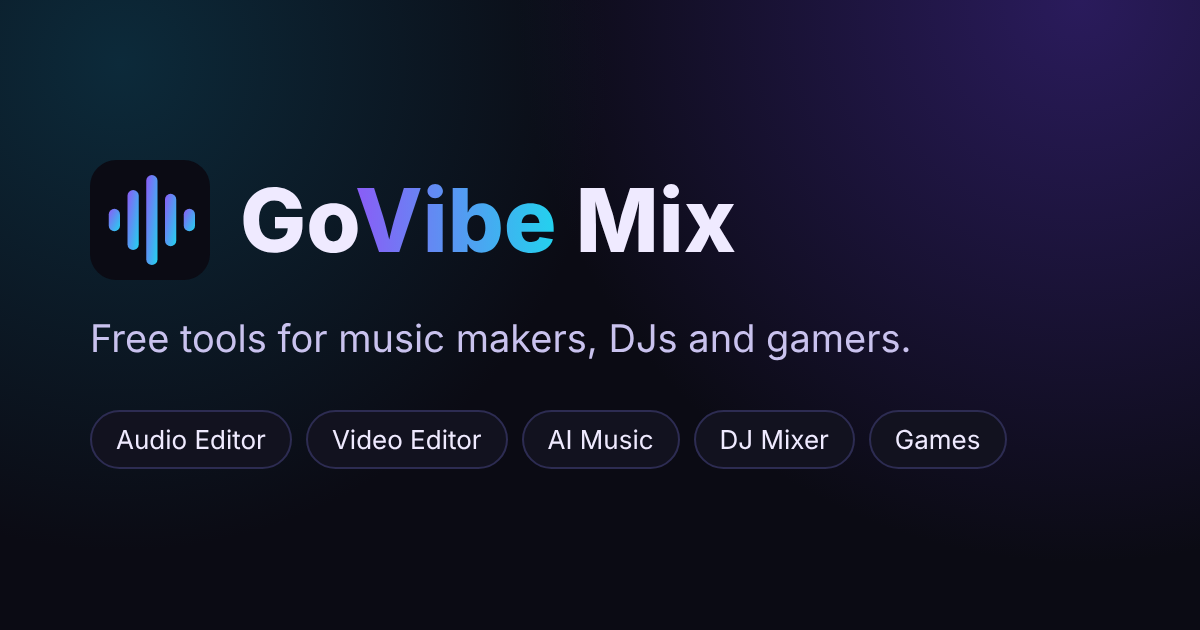
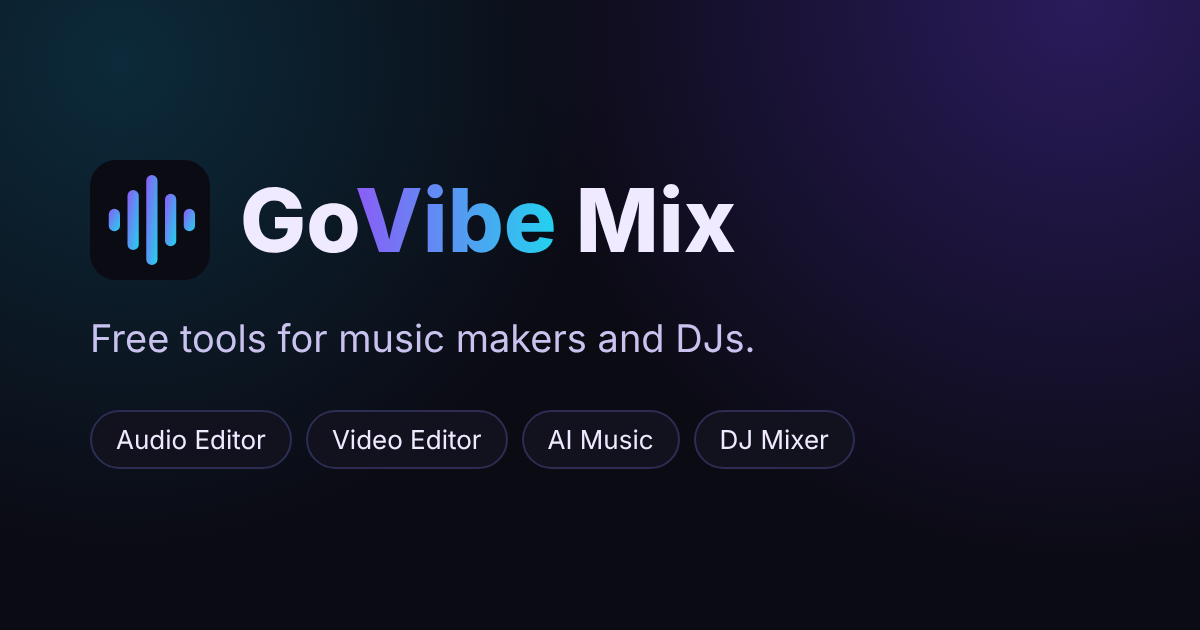
Remove the Play/games section; tighten CSP frame-src to none
Claude-Session: https://claude.ai/code/session_015FdqwN8M4ShayMkwiuPJAE

Changed region(s): [[0.4933, 0.5127, 0.7708, 0.573], [0.74, 0.6333, 0.8325, 0.754]]

diff --git a/index.html b/index.html
@@ -3,16 +3,16 @@
 <head>
 <meta charset="utf-8">
 <meta name="viewport" content="width=device-width, initial-scale=1">
-<title>GoVibe Mix — free music, audio and games</title>
-<meta name="description" content="Free browser tools for music makers, DJs and gamers: edit audio and video, make AI music, mix like a DJ and play games. No sign-up.">
+<title>GoVibe Mix — free music, audio and DJ tools</title>
+<meta name="description" content="Free browser tools for music makers and DJs: edit audio and video, make AI music and mix like a DJ. No sign-up.">
 <meta name="theme-color" content="#0b0b14">
 <link rel="icon" href="icons/favicon.svg" type="image/svg+xml">
 <link rel="apple-touch-icon" href="icons/icon-180.png">
 <link rel="manifest" href="manifest.webmanifest">
 <meta property="og:type" content="website">
 <meta property="og:site_name" content="GoVibe Mix">
-<meta property="og:title" content="GoVibe Mix — free music, audio and games">
-<meta property="og:description" content="Free browser tools for music makers, DJs and gamers: edit audio and video, make AI music, mix like a DJ and play games. No sign-up.">
+<meta property="og:title" content="GoVibe Mix — free music, audio and DJ tools">
+<meta property="og:description" content="Free browser tools for music makers and DJs: edit audio and video, make AI music and mix like a DJ. No sign-up.">
 <meta property="og:url" content="https://go-vibe-studios.sweater-9arc.workers.dev/">
 <meta property="og:image" content="https://go-vibe-studios.sweater-9arc.workers.dev/icons/og-image.png">
 <meta name="twitter:card" content="summary_large_image">
@@ -25,14 +25,13 @@
   <a class="link active" aria-current="page" href="index.html">Home</a>
   <a class="link" href="editor.html">Audio Editor</a>
   <a class="link" href="video.html">Video</a>
-  <a class="link" href="games.html">Play</a>
   <a class="link" href="create.html">Create</a>
   <a class="link" href="dj.html">DJ</a>
   <a class="link" href="lessons.html">Learn</a>
 </nav>
 
 <main id="main" tabindex="-1" class="wrap">
-  <h1>Free tools for <span class="grad">music, DJs and gamers</span></h1>
+  <h1>Free tools for <span class="grad">music and DJs</span></h1>
   <p class="lead">Everything runs in your browser. No sign-up, no payments, and your files never leave your device.</p>
 
   <div class="grid">
@@ -40,12 +39,6 @@
       <div class="emoji">🎚</div>
       <h2>Audio Editor</h2>
       <p>Trim, cut, fade, change volume and speed, and export to WAV.</p>
-      <span class="badge">Live</span>
-    </a>
-    <a class="card" href="games.html">
-      <div class="emoji">🎮</div>
-      <h2>Play</h2>
-      <p>Built-in games, plus add any embeddable HTML5 game by URL.</p>
       <span class="badge">Live</span>
     </a>
     <a class="card" href="create.html">

diff --git a/privacy.html b/privacy.html
@@ -28,7 +28,6 @@
   <a class="link" href="video.html">Video</a>
   <a class="link" href="dj.html">DJ</a>
   <a class="link" href="lessons.html">Learn</a>
-  <a class="link" href="games.html">Play</a>
 </nav>
 
 <main id="main" tabindex="-1" class="wrap prose">
@@ -42,7 +41,7 @@
   <h2>What is stored in your browser</h2>
   <ul>
     <li><b>Your Replicate API key</b>, if you add one on the Create page. It is kept in this browser only: in local storage if you tick "Remember on this device", otherwise for the current tab only. "Remove key" deletes it.</li>
-    <li><b>Proxy address</b> (optional), games you add on the Play page, and your lesson progress.</li>
+    <li><b>Proxy address</b> (optional) and your lesson progress.</li>
     <li><b>Your DJ library</b>, if you add tracks or load them into a deck with "Remember tracks" ticked: the audio files and their BPM, key, beat grid and cue points are kept in this browser's storage (IndexedDB). Use the ✕ button in the Library to remove a track, or clear the site's data in your browser. MIDI mappings and saved beats are also kept here.</li>
     <li><b>Your set history</b>: tracks you play for 20 seconds or more are logged (title, BPM, key, time) in this browser's localStorage, up to 1000 entries. Clear it from the History tab. Library backups you export are files saved to your own device; we never receive them.</li>
     <li><b>A temporary copy of a generated track</b>, used to pass it from the Create page to the Audio Editor. It is deleted once the editor has loaded it.</li>
@@ -53,7 +52,6 @@
   <h2>When data leaves your device</h2>
   <ul>
     <li><b>AI generation (Create page):</b> your prompt and API key are sent to Replicate, or to the proxy address you entered, which forwards them to Replicate. Replicate's own terms and privacy policy apply, and Replicate bills the account that owns the key. A proxy run from this project's <code>worker/</code> folder does not store or log keys, but a proxy run by anyone else is under their control, so only use one you trust.</li>
-    <li><b>Embedded games (Play page):</b> a game you add is a third-party page shown inside this site. It may collect data under its own policy. Only add games you trust.</li>
     <li><b>Hosting:</b> the site is served by Cloudflare, which processes standard web-server data such as IP addresses and the pages requested, under its own privacy policy.</li>
   </ul>
 

diff --git a/sw.js b/sw.js
@@ -1,11 +1,11 @@
 /* GoVibe Mix service worker: lets the site open offline after the first visit.
  * Network first (so a new deploy shows up right away), cached copy as the fallback.
  * Only same-origin GET requests are handled; API calls and downloads are never touched. */
-const CACHE = 'govibe-v12';
+const CACHE = 'govibe-v13';
 const PRECACHE = [
-  'index.html', 'editor.html', 'video.html', 'games.html', 'create.html', 'dj.html', 'lessons.html', 'privacy.html', 'terms.html',
+  'index.html', 'editor.html', 'video.html', 'create.html', 'dj.html', 'lessons.html', 'privacy.html', 'terms.html',
   'css/style.css',
-  'js/store.js', 'js/editor.js', 'js/video.js', 'js/games.js', 'js/create.js', 'js/dj.js','js/beat.js','js/automix.js','js/stems.js','js/knobs.js','js/view.js','js/library.js','js/zip.js','js/history.js','js/recorder.js','js/rec-worklet.js','js/jog.js','js/tabs.js','css/console.css','js/controls.js','js/stems-worker.js', 'js/lessons.js', 'js/pwa.js',
+  'js/store.js', 'js/editor.js', 'js/video.js', 'js/create.js', 'js/dj.js','js/beat.js','js/automix.js','js/stems.js','js/knobs.js','js/view.js','js/library.js','js/zip.js','js/history.js','js/recorder.js','js/rec-worklet.js','js/jog.js','js/tabs.js','css/console.css','js/controls.js','js/stems-worker.js', 'js/lessons.js', 'js/pwa.js',
   'icons/favicon.svg', 'icons/icon-192.png', 'manifest.webmanifest'
 ];
 

diff --git a/terms.html b/terms.html
@@ -28,7 +28,6 @@
   <a class="link" href="video.html">Video</a>
   <a class="link" href="dj.html">DJ</a>
   <a class="link" href="lessons.html">Learn</a>
-  <a class="link" href="games.html">Play</a>
 </nav>
 
 <main id="main" tabindex="-1" class="wrap prose">
@@ -44,9 +43,6 @@
 
   <h2>AI-generated audio</h2>
   <p>Generation runs through your own Replicate account and the models hosted there. Each model has its own licence and usage rules, which decide whether you may use its output commercially. Check them before you publish or sell anything. You are responsible for any charges to your Replicate account, and for keeping your API key private.</p>
-
-  <h2>Third-party games</h2>
-  <p>Games you add on the Play page are provided by other people and are not hosted, reviewed or controlled by us. We are not responsible for them.</p>
 
   <h2>Liability</h2>
   <p>To the fullest extent the law allows, we are not liable for any loss or damage arising from your use of the site, including lost files, lost work or charges from third-party services. Nothing here limits rights you have by law that cannot be excluded.</p>

diff --git a/editor.html b/editor.html
@@ -25,7 +25,6 @@
   <a class="link" href="index.html">Home</a>
   <a class="link active" aria-current="page" href="editor.html">Audio Editor</a>
   <a class="link" href="video.html">Video</a>
-  <a class="link" href="games.html">Play</a>
   <a class="link" href="create.html">Create</a>
   <a class="link" href="dj.html">DJ</a>
   <a class="link" href="lessons.html">Learn</a>

diff --git a/create.html b/create.html
@@ -26,7 +26,6 @@
   <a class="link active" aria-current="page" href="create.html">Create</a>
   <a class="link" href="editor.html">Audio Editor</a>
   <a class="link" href="video.html">Video</a>
-  <a class="link" href="games.html">Play</a>
   <a class="link" href="dj.html">DJ</a>
   <a class="link" href="lessons.html">Learn</a>
 </nav>

diff --git a/video.html b/video.html
@@ -40,7 +40,6 @@
   <a class="link active" aria-current="page" href="video.html">Video</a>
   <a class="link" href="dj.html">DJ</a>
   <a class="link" href="lessons.html">Learn</a>
-  <a class="link" href="games.html">Play</a>
 </nav>
 
 <main id="main" tabindex="-1" class="wrap" style="max-width:1200px">

diff --git a/lessons.html b/lessons.html
@@ -42,7 +42,6 @@
   <a class="link" href="video.html">Video</a>
   <a class="link" href="dj.html">DJ</a>
   <a class="link active" aria-current="page" href="lessons.html">Learn</a>
-  <a class="link" href="games.html">Play</a>
 </nav>
 
 <main id="main" tabindex="-1" class="wrap" style="max-width:860px">

diff --git a/dj.html b/dj.html
@@ -30,7 +30,6 @@
   <a class="link" href="video.html">Video</a>
   <a class="link active" aria-current="page" href="dj.html">DJ</a>
   <a class="link" href="lessons.html">Learn</a>
-  <a class="link" href="games.html">Play</a>
 </nav>
 
 <main id="main" tabindex="-1" class="console">

diff --git a/tests/test_site.py b/tests/test_site.py
@@ -13,7 +13,7 @@ from html.parser import HTMLParser
 from playwright.sync_api import sync_playwright
 
 ROOT = os.path.dirname(os.path.dirname(os.path.abspath(__file__)))
-PAGES = ["index", "editor", "video", "games", "create", "dj", "lessons", "privacy", "terms"]
+PAGES = ["index", "editor", "video", "create", "dj", "lessons", "privacy", "terms"]
 FAILS, PASSES = [], 0
 
 
@@ -117,7 +117,7 @@ def test_pages(browser, base):
         check(f"{name}: no console or script errors", not errs, str(errs))
         check(f"{name}: skip link and main landmark", pg.locator("a.skip").count() == 1 and pg.locator("main#main").count() == 1)
         check(f"{name}: exactly one h1", pg.locator("h1").count() == 1)
-        check(f"{name}: nav has 7 links", pg.locator("nav[aria-label=Main] a.link").count() == 7)
+        check(f"{name}: nav has 6 links", pg.locator("nav[aria-label=Main] a.link").count() == 6)
         ctx.close()
     for name, hook in [("editor", "__gv"), ("dj", "__dj"), ("video", "__ve"), ("lessons", "__lessons")]:
         ctx, pg = new_page(browser, [])
@@ -156,9 +156,9 @@ def test_a11y(browser, base):
     ctx.close()
 
 
-# ---------------------------------------------------------------- audio editor + games
-def test_editor_games(browser, base):
-    print("audio editor and games")
+# ---------------------------------------------------------------- audio editor
+def test_editor(browser, base):
+    print("audio editor")
     errs = []
     ctx, pg = new_page(browser, errs)
     pg.goto(base + "editor.html?gvtest")
@@ -177,24 +177,6 @@ def test_editor_games(browser, base):
     check("editor 2x speed halves the length", r["speed"] == 1500)
     check("editor WAV export size is header + samples", r["wav"] == 44 + 1500 * 2)
     check("editor: no errors", not errs, str(errs))
-    ctx.close()
-
-    errs = []
-    ctx, pg = new_page(browser, errs)
-    pg.goto(base + "games.html")
-    for g in ["Snake", "Memory Match", "Breakout"]:
-        pg.locator(".card", has_text=g).get_by_text("Play").click()
-        pg.wait_for_timeout(350)
-        check(f"game {g} opens", not pg.locator("#modal").evaluate("e => e.classList.contains('hidden')"))
-        pg.keyboard.press("Escape")
-        check(f"game {g} closes with Escape", pg.locator("#modal").evaluate("e => e.classList.contains('hidden')"))
-    pg.fill("#gname", "Test")
-    pg.fill("#gurl", "https://example.com/")
-    pg.click("#gadd")
-    check("embedded game can be added", pg.locator(".card").count() == 4)
-    pg.reload()
-    check("embedded game survives reload", pg.locator(".card").count() == 4)
-    check("games: no errors", not errs, str(errs))
     ctx.close()
 
 
@@ -893,7 +875,7 @@ def main():
     test_static()
     with sync_playwright() as p:
         browser = p.chromium.launch(args=["--autoplay-policy=no-user-gesture-required"])
-        for t in (test_pages, test_a11y, test_editor_games, test_create, test_dj, test_dj_extras, test_stems, test_grid, test_controls, test_console, test_backup_history, test_views, test_lessons, test_video, test_offline):
+        for t in (test_pages, test_a11y, test_editor, test_create, test_dj, test_dj_extras, test_stems, test_grid, test_controls, test_console, test_backup_history, test_views, test_lessons, test_video, test_offline):
             try:
                 t(browser, base)
             except Exception as e:  # a crashed suite is a failure, not a skip

diff --git a/README.md b/README.md
@@ -1,11 +1,10 @@
 # GoVibe Mix
 
-Free browser tools for music makers, DJs and gamers. No sign-up, no payments, no server: everything runs in the user's browser.
+Free browser tools for music makers and DJs. No sign-up, no payments, no server: everything runs in the user's browser.
 
 ## Phase 1 (this version)
 
 - **Audio Editor** (`editor.html`): open a file, select on the waveform, trim, cut, silence, fade in/out, reverse, normalize, volume, speed, undo/redo, export WAV.
-- **Play** (`games.html`): built-in Snake, Memory Match and Breakout, plus user-added embedded HTML5 games (https only, sandboxed iframe, saved in the browser).
 
 ## Phase 2
 
@@ -50,7 +49,6 @@ Push to GitHub, then connect the repo to Cloudflare Pages, GitHub Pages or Verce
 
 ## Notes
 
-- Only add embedded games whose owners allow embedding, and check their terms.
 - The music generator keeps users' API keys in their browser only; the optional proxy does not store or log them.
 
 ## Beat maker
@@ -63,7 +61,7 @@ The DJ page has a 16-step, 6-track beat maker (kick, snare, clap, hats, bass) wi
 - **Installable and offline**: `manifest.webmanifest`, `sw.js` (network-first with cache fallback, cache name `govibe-v1`; bump it when you change the precache list) and `js/pwa.js`. The service worker registers only on https or localhost.
 - **Legal**: `privacy.html` and `terms.html` are plain-language drafts, not legal advice. Have them reviewed before relying on them. Contact is the GitHub Issues page.
 - **Accessibility and phones**: skip link, landmarks, visible focus, reduced-motion support, labelled dialogs and canvases, AA contrast, no sideways scroll at 390 px.
-- **Tests**: `python tests/test_site.py` (needs `pip install playwright && playwright install chromium`; optionally `npm install --no-save axe-core` for the accessibility audit). It serves the site with the real `_headers`, so CSP violations fail the run, mocks Replicate, and covers pages, editor, games, Create modes, DJ, lessons, video export, offline mode and phone layout. GitHub Actions runs it on every push (`.github/workflows/test.yml`).
+- **Tests**: `python tests/test_site.py` (needs `pip install playwright && playwright install chromium`; optionally `npm install --no-save axe-core` for the accessibility audit). It serves the site with the real `_headers`, so CSP violations fail the run, mocks Replicate, and covers pages, editor, Create modes, DJ, lessons, video export, offline mode and phone layout. GitHub Actions runs it on every push (`.github/workflows/test.yml`).
 
 ## DJ extras
 
